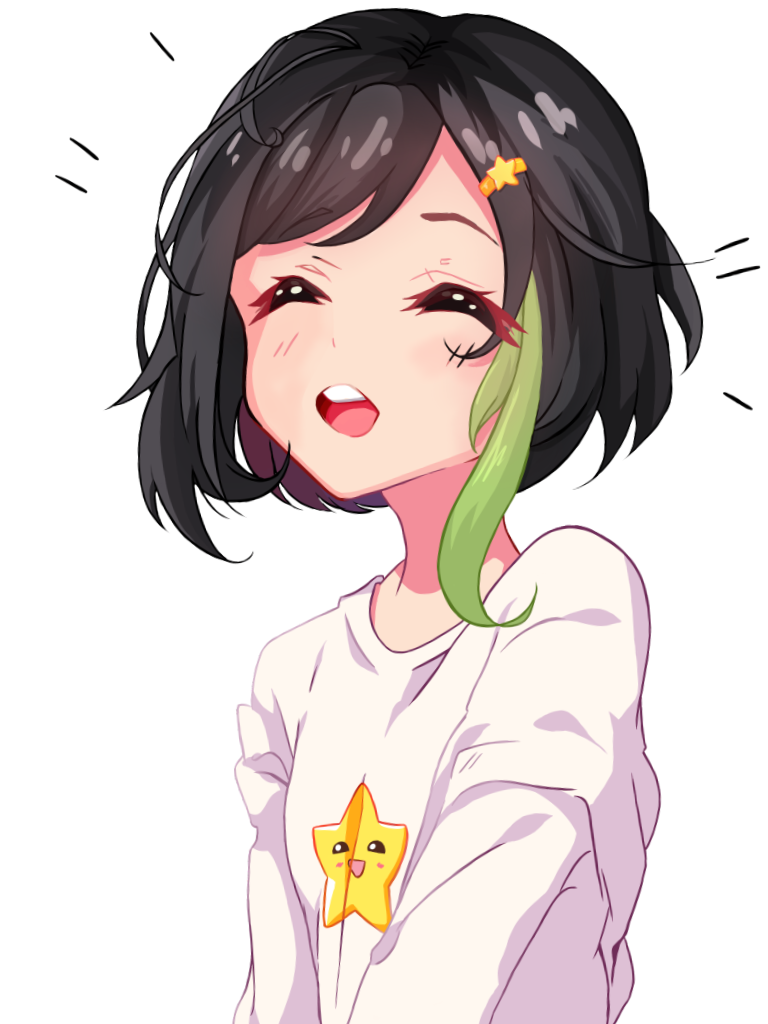
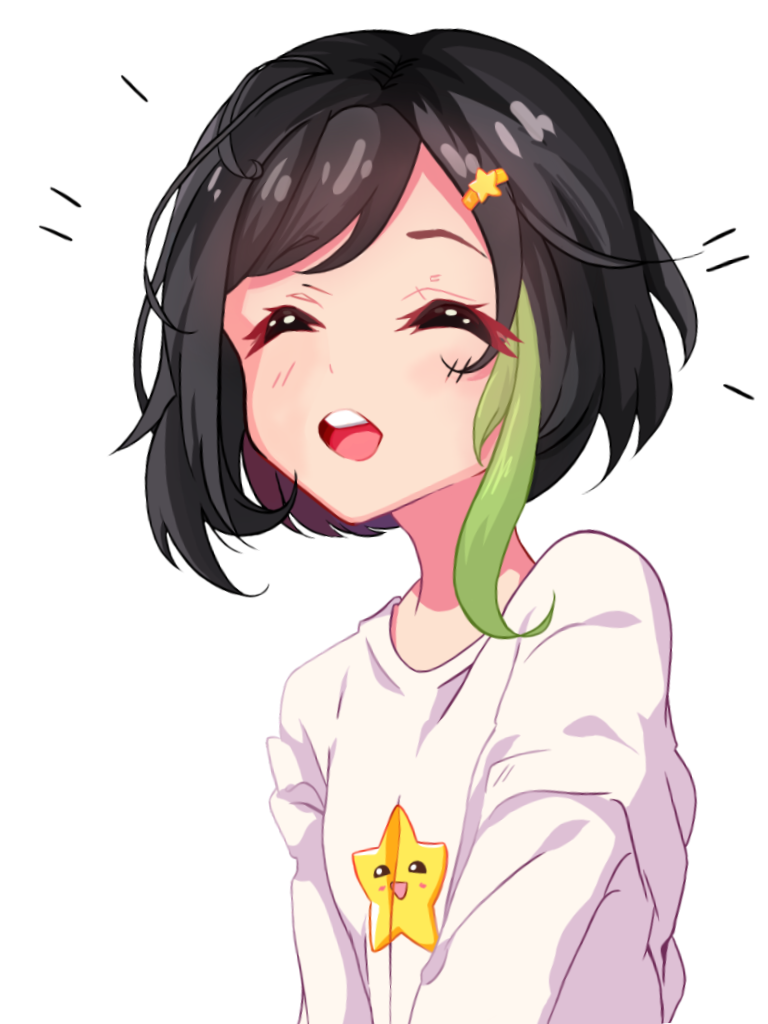
Modify star shirt Ava.

diff --git a/src/components/Branding/Ava.js b/src/components/Branding/Ava.js
@@ -30,7 +30,7 @@ StarShirt.defaultProps = defaultProps;
 const StyledStarShirt = styled(StarShirt)`
   position: absolute;
   bottom: 0;
-  right: -90px;
+  right: -80px;
   z-index: 1500;
   width: 340px;
 `;
